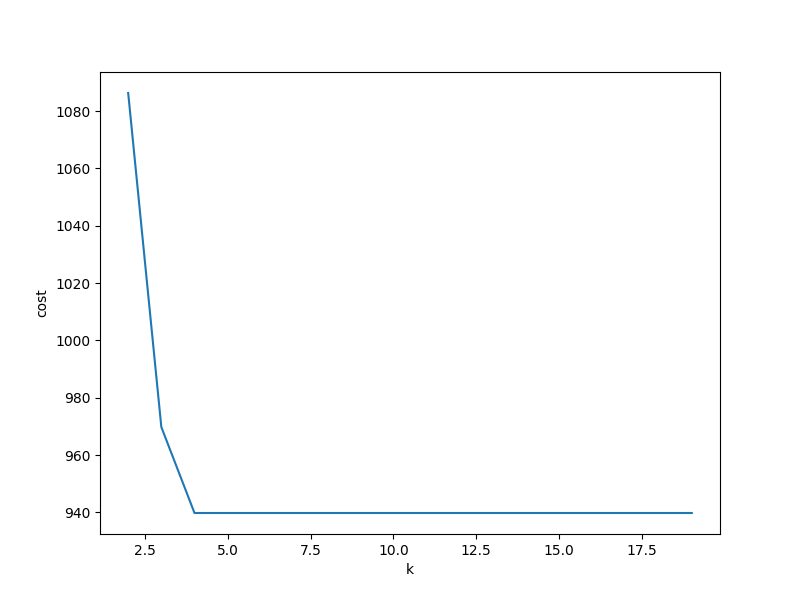
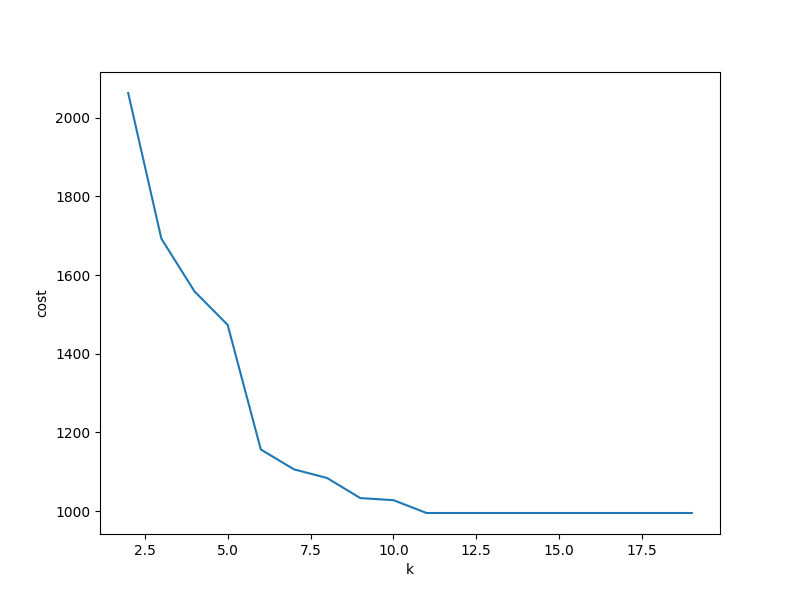
larger dataset

diff --git a/TeamClustering.py b/TeamClustering.py
@@ -12,8 +12,8 @@ import matplotlib.pyplot as plt
 from pyspark.sql import SQLContext
 
 # ReadFile
-FEATURES_COL = ['Pts', 'Opp Pts', 'Pace', 'Off Eff', 'Def Eff']
-path = 'data/17_18_advanced.csv'
+FEATURES_COL = ['Pace', 'Reb Rate', 'Pts', 'Opp Pts']
+path = 'data/3years.csv'
 spark = SparkSession.builder.appName('NBA-Analysis').getOrCreate()
 data = spark.read.csv(path, header=True, inferSchema=True)
 data.printSchema()
@@ -37,7 +37,7 @@ plt.ioff()
 fig.show()
 plt.savefig('K_Selection.png')
 
-k = 4
+k = 11
 kmeans = KMeans().setK(k).setSeed(1).setFeaturesCol("features")
 model = kmeans.fit(df_kmeans)
 centers = model.clusterCenters()
@@ -53,11 +53,12 @@ print(rows[:3])
 df_pred = data.join(transformed, 'Team')
 pddf_pred = df_pred.toPandas().set_index('Team')
 
-threedee = plt.figure(figsize=(12,10)).gca(projection='3d')
-threedee.scatter(pddf_pred['Pts'], pddf_pred['Opp Pts'], pddf_pred['Pace'], c=pddf_pred.prediction)
+threedee = plt.figure(figsize=(12, 10)).gca(projection='3d')
+threedee.scatter(pddf_pred['Pts'], pddf_pred['Opp Pts'], pddf_pred['Reb Rate'], s=20,
+                 c=pddf_pred.prediction)
 threedee.set_xlabel('Pts')
 threedee.set_ylabel('Opp Pts')
-threedee.set_zlabel('Pace')
+threedee.set_zlabel('Reb Rate')
 plt.interactive(True)
 plt.ioff()
 plt.show()
